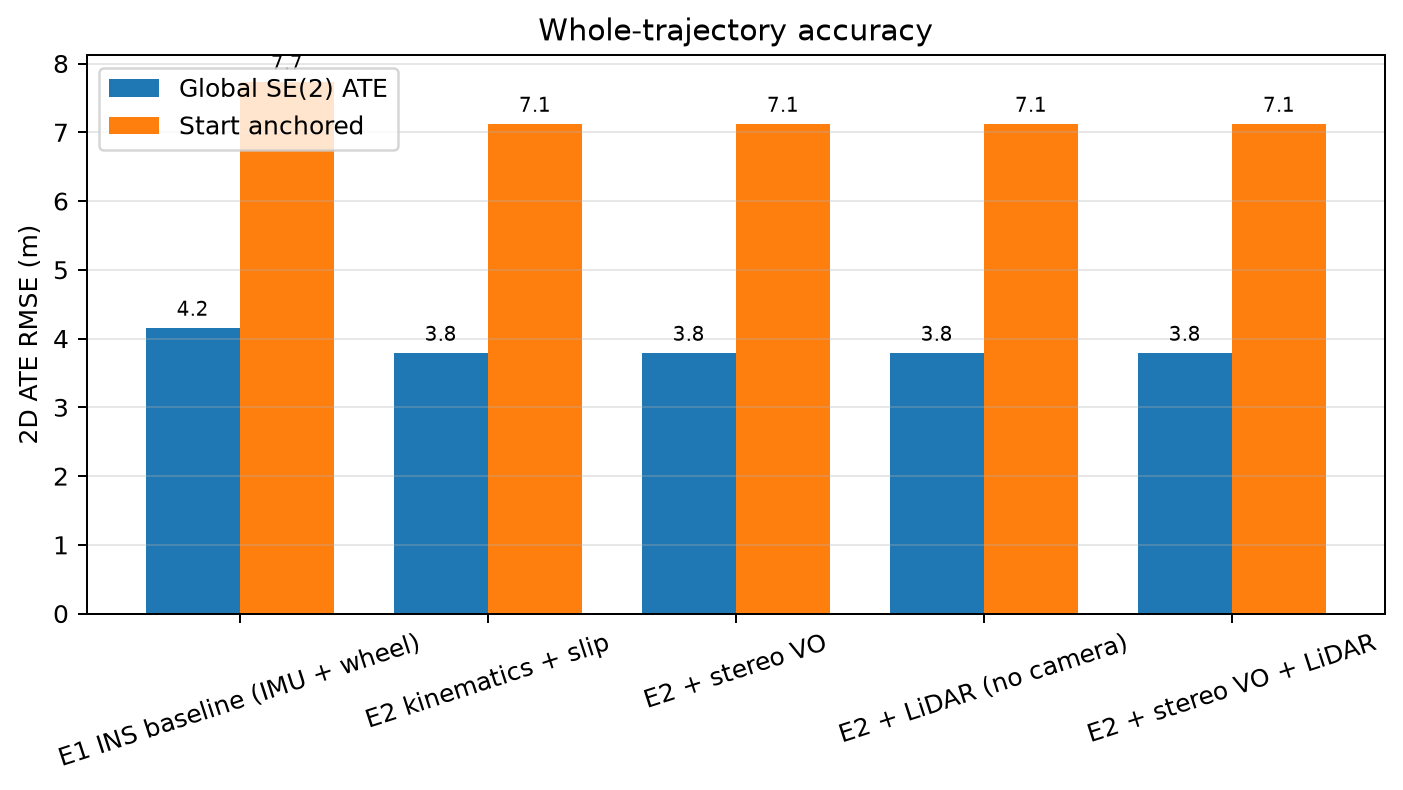
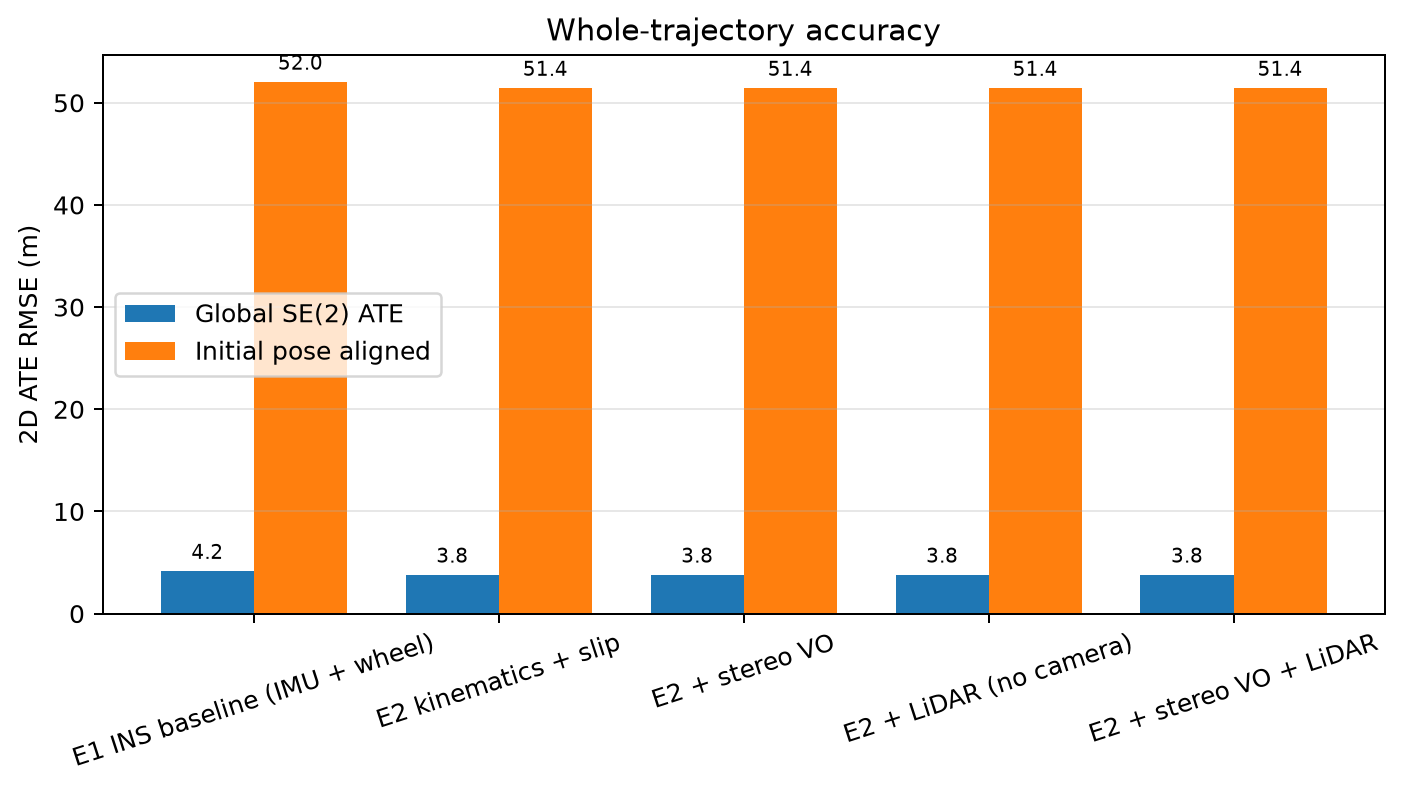
Add Urban33 evaluation and refresh trajectory results

diff --git a/results/conclusions.md b/results/conclusions.md
@@ -5,32 +5,51 @@
 VRS-GPS не надходить у EKF. Для оцінки беруться тільки `fix_state=4`, VRS
 epochs зіставляються зі state за timestamp у межах 50 мс.
 
-Primary metric — global rigid SE(2) ATE без scale fit. Окремо рахується start
-anchored error: yaw береться з того самого SE(2) fit, але translation суміщає
-перші точки. На trajectory plots використано start anchored coordinates, тому
-початок estimate та reference збігається.
+Primary metric — global rigid SE(2) ATE без scale fit. Окремо рахується
+initial-pose error: translation суміщає перші точки, а yaw оцінюється за першим
+надійним відрізком руху близько 20 м. На trajectory plots початкова позиція і
+напрям estimate та reference збігаються.
 
-| Характеристика | `urban35` | `urban39` |
-|---|---:|---:|
-| Тривалість | 173.9 с | 1866.7 с |
-| Encoder samples | 17 388 | 186 675 |
-| IMU samples | 17 388 | 186 682 |
-| Валідні RTK epochs | 169 | 314 |
-| Polyline по valid RTK epochs | 3215 м | 5577 м |
-| Повна довжина sequence | ≈3.2 км | ≈11.1 км |
+| Характеристика | `urban33` | `urban35` | `urban39` |
+|---|---:|---:|---:|
+| Тривалість | 1284.4 с | 173.9 с | 1866.8 с |
+| Encoder samples | 128 436 | 17 388 | 186 675 |
+| IMU samples | 128 442 | 17 388 | 186 682 |
+| Валідні RTK epochs | 908 | 169 | 314 |
+| Polyline по valid RTK epochs | 7162 м | 3215 м | 5577 м |
+| Wheel distance | ≈7.4 км | ≈3.2 км | ≈10.7 км |
 
-`urban35` — короткий майже прямий маршрут. `urban39` триває понад 31 хвилину
-і містить багато поворотів та петель.
+`urban35` — короткий майже прямий маршрут. `urban33` та `urban39` містять
+багато поворотів і краще показують вплив yaw drift та odometry corrections.
+
+## Результати `urban33`
+
+| Конфігурація | Global RMSE, м | Median, м | P95, м | Initial-pose RMSE, м |
+|---|---:|---:|---:|---:|
+| E1 IMU + wheel | 83.828 | 41.393 | 148.782 | 119.094 |
+| E2 kinematics + slip | 84.267 | 41.894 | 150.274 | 119.373 |
+| E2 + stereo VO | 87.574 | 40.944 | 167.555 | 160.326 |
+| E2 + LiDAR | 47.475 | **26.631** | 87.441 | **110.466** |
+| E2 + stereo VO + LiDAR | **45.763** | 28.029 | **84.360** | 118.525 |
+
+![Траєкторії urban33](urban33/screenshots/trajectory_comparison.png)
+
+Stereo frontend прийняв 3117/6410 пар (48.6%), LiDAR — 12210/12732 (95.9%).
+Full mode знижує global RMSE на 45.4%. За initial-pose alignment LiDAR-only
+має найменший RMSE, а full mode майже дорівнює baseline. Водночас кінцева
+помилка зменшується з 404.1 м для baseline до 31.5 м для LiDAR і 30.4 м для
+full. Це означає, що LO добре стримує довготривалий yaw drift, але локальна
+форма середньої частини маршруту ще має систематичну похибку.
 
 ## Результати `urban35`
 
-| Конфігурація | Global RMSE, м | Median, м | P95, м | Start RMSE, м |
+| Конфігурація | Global RMSE, м | Median, м | P95, м | Initial-pose RMSE, м |
 |---|---:|---:|---:|---:|
-| E1 IMU + wheel | 4.153 | 3.104 | 7.024 | 7.731 |
-| E2 kinematics + slip | **3.788** | 3.259 | 5.958 | **7.119** |
-| E2 + stereo VO | 3.788 | 3.259 | 5.958 | 7.119 |
-| E2 + LiDAR | 3.788 | 3.259 | 5.958 | 7.119 |
-| E2 + stereo VO + LiDAR | 3.788 | 3.259 | 5.958 | 7.119 |
+| E1 IMU + wheel | 4.153 | 3.104 | 7.024 | 52.034 |
+| E2 kinematics + slip | **3.788** | 3.259 | 5.958 | **51.433** |
+| E2 + stereo VO | 3.788 | 3.259 | 5.958 | 51.433 |
+| E2 + LiDAR | 3.788 | 3.259 | 5.958 | 51.433 |
+| E2 + stereo VO + LiDAR | 3.788 | 3.259 | 5.958 | 51.433 |
 
 ![Траєкторії urban35](urban35/screenshots/trajectory_comparison.png)
 
@@ -42,13 +61,13 @@ E2 знижує global RMSE на 8.8%. Stereo frontend прийняв 184/868 п
 
 ## Результати `urban39`
 
-| Конфігурація | Global RMSE, м | Median, м | P95, м | Start RMSE, м |
+| Конфігурація | Global RMSE, м | Median, м | P95, м | Initial-pose RMSE, м |
 |---|---:|---:|---:|---:|
-| E1 IMU + wheel | 188.456 | 108.539 | 348.793 | 397.011 |
-| E2 kinematics + slip | 188.471 | 108.484 | 348.879 | 397.094 |
-| E2 + stereo VO | 197.477 | 110.616 | 367.559 | 417.832 |
-| E2 + LiDAR | 90.789 | 57.316 | 168.823 | **168.629** |
-| E2 + stereo VO + LiDAR | **90.690** | **57.029** | **168.689** | 168.668 |
+| E1 IMU + wheel | 188.456 | 108.539 | 348.793 | 397.401 |
+| E2 kinematics + slip | 188.471 | 108.484 | 348.879 | 397.457 |
+| E2 + stereo VO | 197.477 | 110.616 | 367.559 | 412.119 |
+| E2 + LiDAR | 90.789 | 57.316 | 168.823 | **247.936** |
+| E2 + stereo VO + LiDAR | **90.690** | **57.029** | **168.689** | 249.365 |
 
 ![Траєкторії urban39](urban39/screenshots/trajectory_comparison.png)
 
@@ -82,7 +101,7 @@ scatter і систематичний bias. Adaptive NIS обмежує окре
    cross-covariance. Relative pose innovation коригує `x,y,yaw`.
 8. NIS вище soft threshold збільшує measurement covariance. Лише outlier, який
    потребує scale понад 100, повністю відкидається.
-9. Після estimator run VRS використовується для global та start anchored
+9. Після estimator run VRS використовується для global та initial-pose
    evaluation. Він не впливає на state.
 
 ## Перевірка причин Urban39 error
@@ -125,15 +144,22 @@ Adaptive NIS збільшує недовіру до слабкого measurement
 його. На фінальному Urban39 LiDAR run covariance було збільшено для 398 із
 18022 increments; hard rejection не знадобився.
 
-## Чому перший графік не збігався на старті
+## Вирівнювання старту та різниця метрик
 
 Попередній plot показував global Kabsch alignment. Він мінімізує сумарну ATE і
 може змістити першу точку; на старому Urban39 графіку цей offset становив
 приблизно 349 м. Це була властивість візуалізації, а не timestamp shift.
 
-Тепер trajectory plots використовують start anchored translation, тому старт
-збігається. Primary global ATE збережено окремо, щоб не змінювати стандартну
-метрику.
+Перші приблизно 6 секунд `urban39` стоїть, тому напрям за першими двома RTK
+точками визначається шумом. Тепер trajectory plots суміщають стартову позицію,
+чекають на перший надійний відрізок близько 20 м і за ним суміщають початковий
+yaw.
+
+Initial-pose RMSE вищий за global ATE, бо global Kabsch fit підбирає кут і зсув
+за всією траєкторією та мінімізує середню помилку. Initial-pose alignment фіксує
+напрям на старті, після чого accumulated yaw drift уже не компенсується
+глобальним поворотом. Тому цей графік краще показує navigation drift, а global
+ATE лишається primary метрикою форми траєкторії.
 
 ## Відмінність від VIO та LIO
 
@@ -146,7 +172,7 @@ Adaptive NIS збільшує недовіру до слабкого measurement
   residuals відносно local map разом з inertial state.
 
 У реалізації немає IMU deskew, scan-to-map, loop closure або joint nonlinear
-optimization. Тому 91 м на 11.1 км є помітним покращенням прототипу, але не
+optimization. Тому 91 м на 10.7 км є помітним покращенням прототипу, але не
 рівнем повноцінного LIO.
 
 ## Наступні покращення

diff --git a/docs/architecture.md b/docs/architecture.md
@@ -2,7 +2,7 @@
 
 ## Призначення
 
-Pipeline оцінює planar state автомобіля на `urban35` та `urban39` без GNSS
+Pipeline оцінює planar state автомобіля на `urban33`, `urban35` та `urban39` без GNSS
 measurement у фільтрі. EKF state:
 
 ```text
@@ -148,12 +148,14 @@ CSV містить дві оцінки:
 
 1. **Global SE(2) ATE** — Kabsch translation і yaw по всіх matched points, без
    scale fit. Це primary metric форми траєкторії.
-2. **Start anchored error** — використовується той самий fitted yaw, але
-   translation фіксує перші точки разом. Саме його показують trajectory та
-   error-over-time plots, тому старт estimate і reference збігається.
+2. **Initial-pose error** — translation фіксує перші точки разом, а yaw
+   оцінюється за першим надійним відрізком руху близько 20 м. Саме його
+   показують trajectory та error-over-time plots, тому стартова позиція і
+   напрям estimate та reference збігаються.
 
-Start anchored plot є offline візуалізацією: fitted yaw використовує всю
-reference trajectory. VRS та alignment ніколи не повертаються у EKF.
+Initial-pose plot є offline візуалізацією. Global SE(2) fit використовує всю
+reference trajectory лише для primary ATE. VRS та alignment ніколи не
+повертаються у EKF.
 
 ## Перевірені систематичні фактори
 

diff --git a/data/README.md b/data/README.md
@@ -1,6 +1,6 @@
 # Dataset installation
 
-This project uses sequences `urban35` and `urban39` from the Complex Urban Dataset:
+This project uses sequences `urban33`, `urban35`, and `urban39` from the Complex Urban Dataset:
 
 https://sites.google.com/view/complex-urban-dataset
 
@@ -33,4 +33,4 @@ Known sequence details:
 - the first right stereo frame corresponding to `1544686261456267672` is absent;
 - the first expected right VLP frame corresponding to `1544686261584782000` is absent;
 - VRS-GPS epochs without a valid RTK fix are excluded from primary metrics.
-- `urban39/archives/` may retain the downloaded tar files; runtime does not read them.
+- `<sequence>/archives/` may retain downloaded tar files; runtime does not read them.
